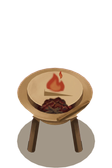
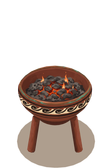
art: junior pottery brazier
Claude-Session: https://claude.ai/code/session_01F6g2diRzQCzQwEf9zsEEGH

Changed region(s): [[0.1339, 0.3869, 0.8304, 0.9226], [0.7768, 0.744, 0.8036, 0.7738]]

diff --git a/docs/instructions/repaint-queue.md b/docs/instructions/repaint-queue.md
@@ -483,7 +483,7 @@ Even lighting left to right, no hotspot, no vignette.
 
 ---
 
-## Nobleman — twenty-five
+## Nobleman — twenty-four
 
 The nobleman's existing props, repainted for the rank's new light orange floor. Each is its own thing
 first: cedar is cedar, linen is linen, pottery is pottery, painted in red ochre, Egyptian blue and leaf
@@ -506,38 +506,6 @@ The last nine are the house's own kinds, new with its activities ([themed-rooms.
 § Junior): each has a primitive of its own in `renderProp.py` and a guarded block in `art/rebuild.sh`. The
 banquet table and the bed are two cells across, so their frame is landscape three by two; the harp and the
 potted tree stand a cell taller, so theirs is portrait two by five.
-
-### `junior/brazier` — a pottery brazier, burning
-
-**Re-roll:** the rank's palette moved (2026-11-03, `Topology/Palette moodboard`). Repainted against the new light orange floor, in its own material's colours; copper only as a trim.
-
-**Attach:**
-
-1. `~/tile-previews/brazier-junior.png` — the scaffold
-2. `~/tile-previews/junior-plain.png` — the material reference
-
-```
-A wall-less product shot of a single object, painted in flat matte gouache, no background, on pure magenta #FF00FF. Portrait, two units wide by three tall, exactly as the reference. Do not re-compose it into a square. Paint over the reference image itself.
-
-The object: a BRAZIER. The stand is the base; the open bowl on it holds the FIRE.
-
-The stand and bowl are red-brown fired POTTERY #8c4a36, #6a3828 in shade, with a painted band of black
-#2a1f18 and cream round the bowl and a thin copper rim #8a4022 gone verdigris. The bowl is full of banked
-coals under dark grey ash #4a4038, glowing deep orange and red only in the cracks between them, with a
-few small flames: light, not smoke.
-
-Keep every edge, every proportion and every silhouette exactly as in the reference image — do not move, resize, straighten, add, remove or restyle any part of it, and do not change the angle it stands at. Paint only material and wear.
-
-No highlights, no gloss, no rim light, no ground plane, no reflections. Matte throughout, evenly lit, crisp and clean. Nobleman's house: orange sandstone, painted plaster, cedar, linen, reed and pottery, each in its OWN colours so it reads at a glance as what it is. Copper is an accent only — a rim, a band, a hasp, gone verdigris green at the edges — never a tint over the whole object.
-```
-
-Then, once the return is in `~/Downloads`:
-
-```sh
-scaffold brazier --lit=1 --colour=#8c4a36 --floor=#e2a86f
-yarn import-tile art/masters/props/junior/brazier.webp --tier=junior --name=brazier --slot=prop \
-  --filter=smooth --mask="$OBJ" --seat="$SHADOW" --scale=0.7
-```
 
 ### `junior/rubblePile` — fallen painted plaster
 
